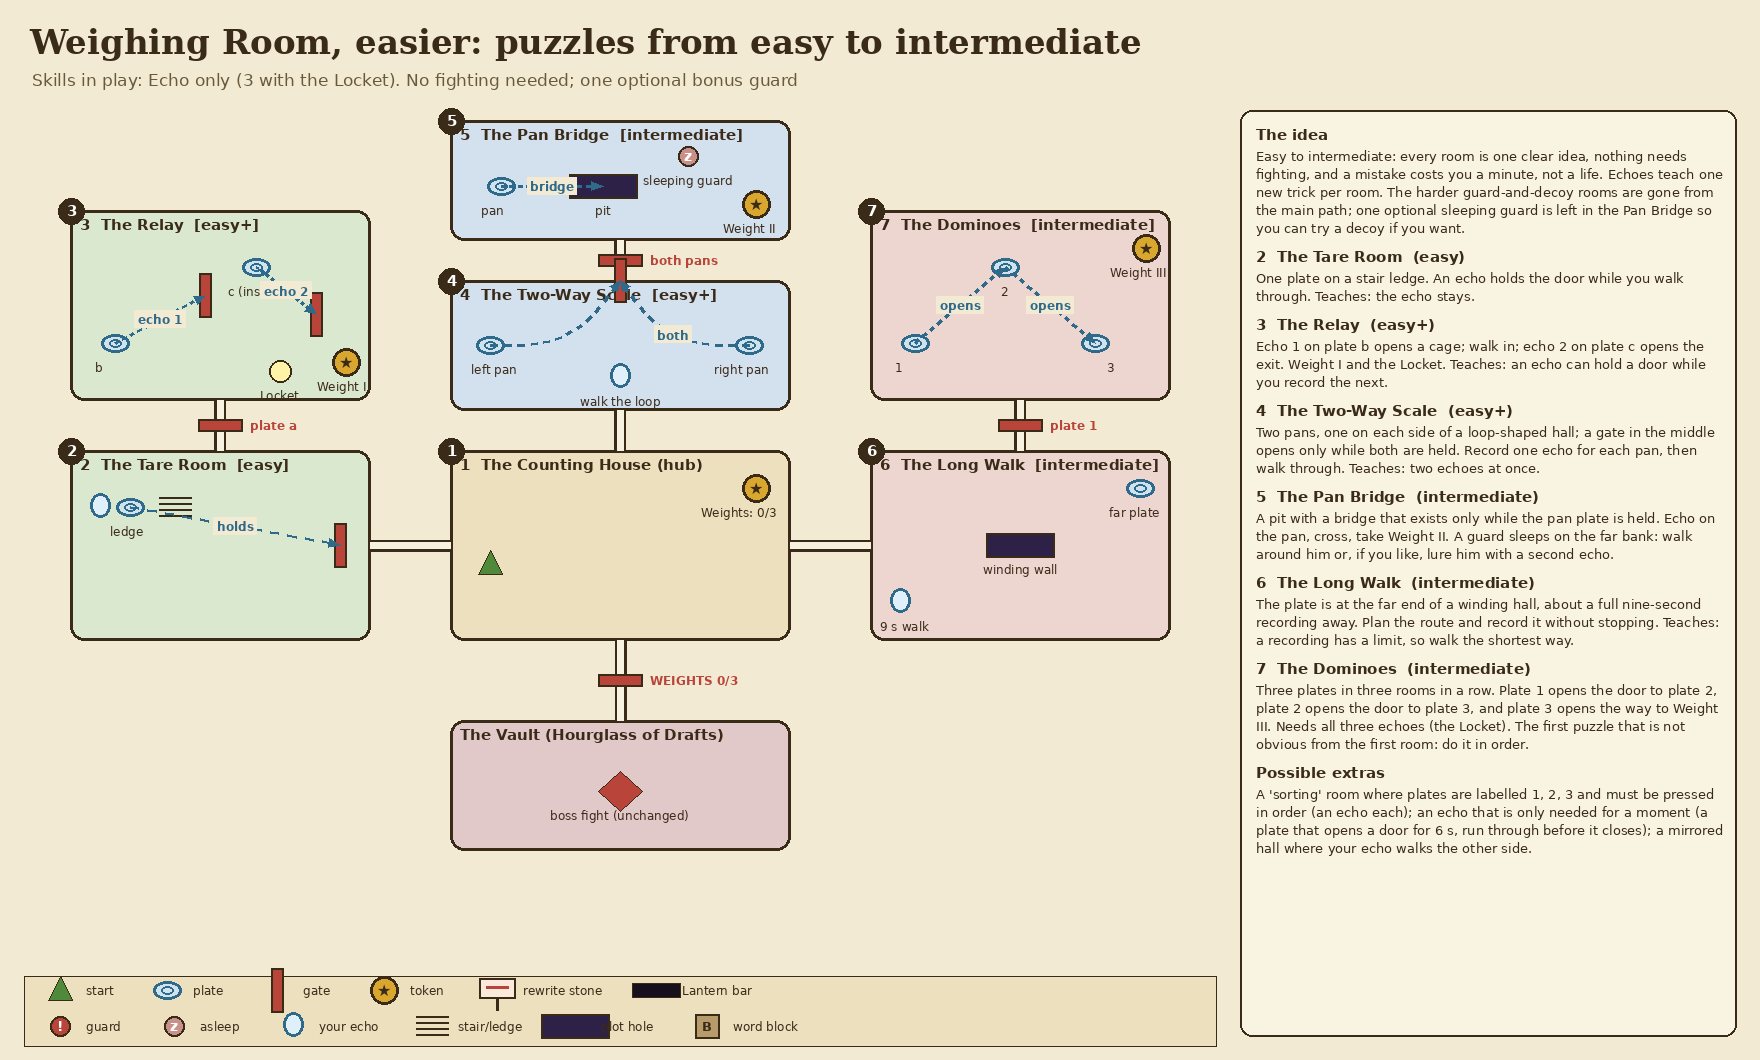
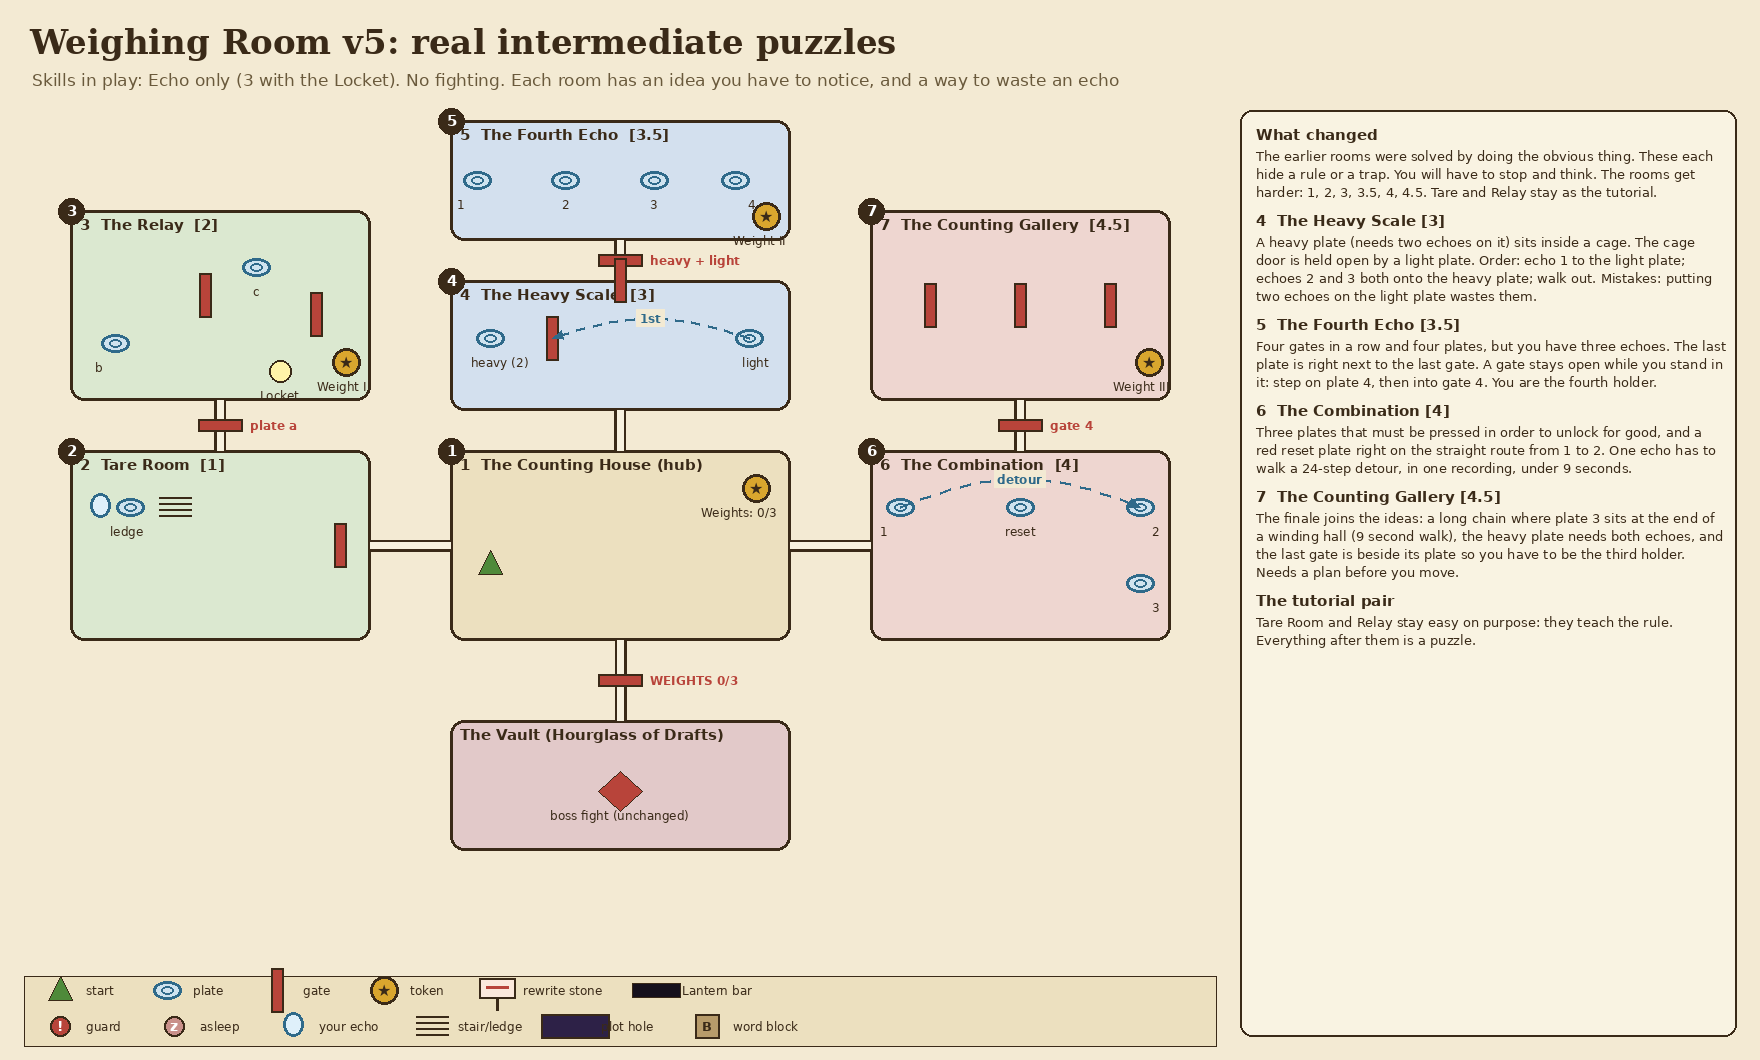
Design plans: Weighing Room v5 with real intermediate puzzles (heavy plate, you-are-the-fourth, ordered combination with a reset trap)
Claude-Session: https://claude.ai/code/session_016gJ6h7fwHSB3wbPLZqVGQo

diff --git a/tools/draw_plans.py b/tools/draw_plans.py
@@ -284,30 +284,25 @@ def weighing():
 
 # ---- WEIGHING ROOM v3: easy to intermediate -----------------------------------------------------------------------------
 def weighing_easy():
-    p = Plan("Weighing Room, easier: puzzles from easy to intermediate", "Echo only (3 with the Locket). No fighting needed; one optional bonus guard")
-    frame(p, {"hub": "1  The Counting House (hub)", "a1": "2  The Tare Room  [easy]", "a2": "3  The Relay  [easy+]", "b1": "4  The Two-Way Scale  [easy+]", "b2": "5  The Pan Bridge  [intermediate]",
-              "c1": "6  The Long Walk  [intermediate]", "c2": "7  The Dominoes  [intermediate]", "la": "plate a", "lb": "both pans", "lc": "plate 1"}, "The Vault (Hourglass of Drafts)", "WEIGHTS 0/3")
+    p = Plan("Weighing Room v5: real intermediate puzzles", "Echo only (3 with the Locket). No fighting. Each room has an idea you have to notice, and a way to waste an echo")
+    frame(p, {"hub": "1  The Counting House (hub)", "a1": "2  Tare Room  [1]", "a2": "3  The Relay  [2]", "b1": "4  The Heavy Scale  [3]", "b2": "5  The Fourth Echo  [3.5]",
+              "c1": "6  The Combination  [4]", "c2": "7  The Counting Gallery  [4.5]", "la": "plate a", "lb": "heavy + light", "lc": "gate 4"}, "The Vault (Hourglass of Drafts)", "WEIGHTS 0/3")
     p.item("hub", "start", "start", 0.12, 0.6); p.item("hub", "tk", "token", 0.9, 0.2, "Weights: 0/3")
     p.item("a1", "pa", "plate", 0.2, 0.3, "ledge"); p.item("a1", "st", "stair", 0.35, 0.3); p.item("a1", "ea", "echo", 0.1, 0.3); p.item("a1", "ga", "gate", 0.9, 0.5)
-    p.dep("pa", "ga", BLUE, "holds", 0)
-    p.item("a2", "pb", "plate", 0.15, 0.7, "b"); p.item("a2", "x1", "gate", 0.45, 0.45); p.item("a2", "pc", "plate", 0.62, 0.3, "c (inside)"); p.item("a2", "x2", "gate", 0.82, 0.55)
+    p.item("a2", "pb", "plate", 0.15, 0.7, "b"); p.item("a2", "x1", "gate", 0.45, 0.45); p.item("a2", "pc", "plate", 0.62, 0.3, "c"); p.item("a2", "x2", "gate", 0.82, 0.55)
     p.item("a2", "tW1", "token", 0.92, 0.8, "Weight I"); p.item("a2", "lk", "lamp", 0.7, 0.85, "Locket")
-    p.dep("pb", "x1", BLUE, "echo 1", 0); p.dep("pc", "x2", BLUE, "echo 2", 0)
-    p.item("b1", "pl", "plate", 0.12, 0.5, "left pan"); p.item("b1", "pr", "plate", 0.88, 0.5, "right pan"); p.item("b1", "gt", "gate", 0.5, 0.0); p.item("b1", "e1", "echo", 0.5, 0.75, "walk the loop")
-    p.dep("pl", "gt", BLUE, "", -25); p.dep("pr", "gt", BLUE, "both", 25)
-    p.item("b2", "pf", "plate", 0.15, 0.55, "pan"); p.item("b2", "hp", "hole", 0.45, 0.55, "pit"); p.item("b2", "tW2", "token", 0.9, 0.7, "Weight II"); p.item("b2", "sl", "sleep", 0.7, 0.3, "sleeping guard")
-    p.dep("pf", "hp", BLUE, "bridge", 0)
-    p.item("c1", "p0", "plate", 0.9, 0.2, "far plate"); p.item("c1", "ec", "echo", 0.1, 0.8, "9 s walk"); p.item("c1", "hh", "hole", 0.5, 0.5, "winding wall")
-    p.item("c2", "d1", "plate", 0.15, 0.7, "1"); p.item("c2", "d2", "plate", 0.45, 0.3, "2"); p.item("c2", "d3", "plate", 0.75, 0.7, "3"); p.item("c2", "tW3", "token", 0.92, 0.2, "Weight III")
-    p.dep("d1", "d2", BLUE, "opens", 0); p.dep("d2", "d3", BLUE, "opens", 0)
-    p.note("The idea", "Easy to intermediate: every room is one clear idea, nothing needs fighting, and a mistake costs you a minute, not a life. Echoes teach one new trick per room. The harder guard-and-decoy rooms are gone from the main path; one optional sleeping guard is left in the Pan Bridge so you can try a decoy if you want.")
-    p.note("2  The Tare Room  (easy)", "One plate on a stair ledge. An echo holds the door while you walk through. Teaches: the echo stays.")
-    p.note("3  The Relay  (easy+)", "Echo 1 on plate b opens a cage; walk in; echo 2 on plate c opens the exit. Weight I and the Locket. Teaches: an echo can hold a door while you record the next.")
-    p.note("4  The Two-Way Scale  (easy+)", "Two pans, one on each side of a loop-shaped hall; a gate in the middle opens only while both are held. Record one echo for each pan, then walk through. Teaches: two echoes at once.")
-    p.note("5  The Pan Bridge  (intermediate)", "A pit with a bridge that exists only while the pan plate is held. Echo on the pan, cross, take Weight II. A guard sleeps on the far bank: walk around him or, if you like, lure him with a second echo.")
-    p.note("6  The Long Walk  (intermediate)", "The plate is at the far end of a winding hall, about a full nine-second recording away. Plan the route and record it without stopping. Teaches: a recording has a limit, so walk the shortest way.")
-    p.note("7  The Dominoes  (intermediate)", "Three plates in three rooms in a row. Plate 1 opens the door to plate 2, plate 2 opens the door to plate 3, and plate 3 opens the way to Weight III. Needs all three echoes (the Locket). The first puzzle that is not obvious from the first room: do it in order.")
-    p.note("Possible extras", "A 'sorting' room where plates are labelled 1, 2, 3 and must be pressed in order (an echo each); an echo that is only needed for a moment (a plate that opens a door for 6 s, run through before it closes); a mirrored hall where your echo walks the other side.")
+    p.item("b1", "hv", "plate", 0.12, 0.45, "heavy (2)"); p.item("b1", "cg", "gate", 0.3, 0.45); p.item("b1", "lt", "plate", 0.88, 0.45, "light"); p.item("b1", "gt", "gate", 0.5, 0.0)
+    p.dep("lt", "cg", BLUE, "1st", -20)
+    p.item("b2", "f1", "plate", 0.08, 0.5, "1"); p.item("b2", "f2", "plate", 0.34, 0.5, "2"); p.item("b2", "f3", "plate", 0.6, 0.5, "3"); p.item("b2", "f4", "plate", 0.84, 0.5, "4"); p.item("b2", "tW2", "token", 0.93, 0.8, "Weight II")
+    p.item("c1", "r1", "plate", 0.1, 0.3, "1"); p.item("c1", "rx", "plate", 0.5, 0.3, "reset"); p.item("c1", "r2", "plate", 0.9, 0.3, "2"); p.item("c1", "r3", "plate", 0.9, 0.7, "3")
+    p.dep("r1", "r2", BLUE, "detour", 28)
+    p.item("c2", "g1", "gate", 0.2, 0.5); p.item("c2", "g2", "gate", 0.5, 0.5); p.item("c2", "g3", "gate", 0.8, 0.5); p.item("c2", "tW3", "token", 0.93, 0.8, "Weight III")
+    p.note("What changed", "The earlier rooms were solved by doing the obvious thing. These each hide a rule or a trap. You will have to stop and think. The rooms get harder: 1, 2, 3, 3.5, 4, 4.5. Tare and Relay stay as the tutorial.")
+    p.note("4  The Heavy Scale [3]", "A heavy plate (needs two echoes on it) sits inside a cage. The cage door is held open by a light plate. Order: echo 1 to the light plate; echoes 2 and 3 both onto the heavy plate; walk out. Mistakes: putting two echoes on the light plate wastes them.")
+    p.note("5  The Fourth Echo [3.5]", "Four gates in a row and four plates, but you have three echoes. The last plate is right next to the last gate. A gate stays open while you stand in it: step on plate 4, then into gate 4. You are the fourth holder.")
+    p.note("6  The Combination [4]", "Three plates that must be pressed in order to unlock for good, and a red reset plate right on the straight route from 1 to 2. One echo has to walk a 24-step detour, in one recording, under 9 seconds.")
+    p.note("7  The Counting Gallery [4.5]", "The finale joins the ideas: a long chain where plate 3 sits at the end of a winding hall (9 second walk), the heavy plate needs both echoes, and the last gate is beside its plate so you have to be the third holder. Needs a plan before you move.")
+    p.note("The tutorial pair", "Tare Room and Relay stay easy on purpose: they teach the rule. Everything after them is a puzzle.")
     p.finish("docs/dungeon_plans/side_weighing_room_easy.png")
 
 # ---- PROOF ROOM (side) ------------------------------------------------------------------------------------------------
@@ -334,7 +329,7 @@ if __name__ == "__main__":
 # Legend for the sketches: # void  . floor  ^ raised ledge  S stair  ~ pit  a..z plate  = gate  | cage wall gate
 # E entry  W weight  L locket  g sleeping guard  X exit
 EASY_ROOMS = [
-    ("2  The Tare Room  (easy, 1 echo)", [
+    ("2  The Tare Room  [1: tutorial, 1 echo]", [
         "################",
         "#^^^^^#........#",
         "#^^a^^S........#",
@@ -342,44 +337,43 @@ EASY_ROOMS = [
         "#######........#",
         "#E.............#",
         "################"],
-     [[(1, 5), (8, 5), (8, 2), (6, 2), (3, 2)]], ["Record from the entry: round, up the stair onto the ledge plate (a).", "The echo stays on the plate. Walk out through the gate."]),
-    ("3  The Relay  (easy+, 2 echoes)", [
+     [[(1, 5), (8, 5), (8, 2), (6, 2), (3, 2)]], ["Round and up the stair onto the ledge plate. The echo stays. That is the whole rule."]),
+    ("3  The Relay  [2: 2 echoes in order]", [
         "#####################",
         "#........#......#WL.#",
         "#........=..c...|...#",
         "#E....b..#......#####",
         "#####################"],
-     [[(1, 3), (6, 3)], [(8, 2), (13, 2)]], ["Echo 1 on plate b opens the cage gate (=).", "Walk in, record Echo 2 onto plate c: it opens the exit gate (|). Weight and Locket."]),
-    ("4  The Two-Way Scale  (easy+, 2 echoes)", [
-        "#########=#########",
-        "#.................#",
-        "#.###############.#",
-        "#a###############b#",
-        "#.###############.#",
-        "#........E........#",
-        "###################"],
-     [[(9, 5), (1, 5), (1, 3)], [(9, 5), (17, 5), (17, 3)]], ["Both pans (a and b) must be held at once to open the gate (=).", "Record one echo around each side, then walk up to the gate."]),
-    ("5  The Pan Bridge  (intermediate, 1 echo)", [
-        "#####################",
-        "#..a.....~~~~.......#",
-        "#E.......~~~~....g.W#",
-        "#........~~~~.......#",
+     [[(1, 3), (6, 3)], [(8, 2), (13, 2)]], ["Echo 1 on b opens the cage. Walk in, record echo 2 onto c: it opens the exit. Weight I and the Locket."]),
+    ("4  The Heavy Scale  [3: 3 echoes, order matters]", [
+        "##########=##########",
+        "#....#.............##",
+        "#.2..=.............l#",
+        "#....#.............##",
+        "#####...............#",
+        "#####.......E.......#",
         "#####################"],
-     [[(1, 2), (3, 1)]], ["Echo on the pan (a) draws out a bridge over the pit (~) while it is held.", "A guard (z) sleeps on the far bank: walk around him, or lure him with a second echo."]),
-    ("6  The Long Walk  (intermediate, 1 echo)", [
-        "############",
-        "#E.........#",
-        "##########.#",
-        "#..........#",
-        "#.##########",
-        "#.........p#",
-        "############"],
-     [[(1, 1), (10, 1), (10, 3), (1, 3), (1, 5), (10, 5)]], ["Plate p is at the end of a winding hall: about 30 steps, nearly the full nine seconds.", "Walk the shortest way, without stopping, and record it in one go."]),
-    ("7  The Dominoes  (intermediate, 3 echoes)", [
-        "############################",
-        "#E..1..=..2..=..3..........W#",
-        "############################"],
-     [[(1, 1), (4, 1)], [(7, 1), (10, 1)], [(13, 1), (16, 1)]], ["Plate 1 holds gate 1, plate 2 holds gate 2, plate 3 holds the way to the weight.", "All three echoes stay: you walk through while all three hold their plates."]),
+     [[(12, 5), (19, 2)], [(12, 5), (5, 2), (2, 2)], [(12, 5), (5, 2), (2, 2)]],
+     ["The heavy plate (2) sits in a cage and only counts when TWO echoes stand on it. The cage door is held by the light plate (l).",
+      "So: echo 1 to l first, then echoes 2 AND 3 onto the heavy plate. All three echoes, in that order, and you walk out the top gate."]),
+    ("5  The Fourth Echo  [3.5: you are the fourth]", [
+        "####################",
+        "#E.1.=.2.=.3.=.4=.W#",
+        "####################"],
+     [[(1, 1), (3, 1)], [(6, 1), (7, 1)], [(10, 1), (11, 1)], [(14, 1), (15, 1), (16, 1)]],
+     ["Four plates, four gates in a row, but you can keep only three echoes. The way: gate 4 stands right next to plate 4.",
+      "A gate stays open while you stand in it. So step on plate 4, then step into gate 4, and walk on. You are the fourth holder."]),
+    ("6  The Combination  [4: order, a trap, a route]", [
+        "#####################",
+        "#E.1.......x.......2#",
+        "###.#########.#####.#",
+        "###...........#####3#",
+        "###################=#",
+        "###################W#",
+        "#####################"],
+     [[(1, 1), (3, 1), (3, 3), (13, 3), (13, 1), (19, 1), (19, 3)]],
+     ["Plates 1, 2, 3 must be pressed in that order to unlock the gate for good. The red plate (x) resets the lock.",
+      "The straight way from 1 to 2 crosses x. One echo has to walk the detour: down, along, up, then on to 2 and 3. About 24 steps, under the 9 second limit."]),
 ]
 
 def sketch(d, ox, oy, rows, paths, cell=26):
@@ -402,6 +396,8 @@ def sketch(d, ox, oy, rows, paths, cell=26):
                 d.ellipse((cx - 9, cy - 9, cx + 9, cy + 9), fill="#fff3a8", outline=INK, width=2)
             elif ch == 'g':
                 d.ellipse((cx - 9, cy - 9, cx + 9, cy + 9), fill="#c9908a", outline=INK, width=2); d.text((cx, cy), "z", font=font(12, True), fill="white", anchor="mm")
+            elif ch == 'x':
+                d.ellipse((cx - 11, cy - 7, cx + 11, cy + 7), outline=RED, width=3, fill="#f0c8c0"); d.text((cx, cy + 16), 'reset', font=font(11, True), fill=RED, anchor='mm')
             elif ch.isalnum() and ch not in "SEWLg" and ch.lower() == ch or ch.isdigit():
                 d.ellipse((cx - 11, cy - 7, cx + 11, cy + 7), outline=BLUE, width=3, fill="#cfe3ef")
                 d.text((cx, cy + 16), ch, font=font(11, True), fill=BLUE, anchor="mm")
@@ -444,8 +440,8 @@ def weighing_progression():
     d = ImageDraw.Draw(im)
     d.text((30, 20), "Weighing Room: the progression", font=ImageFont.truetype(FS, 34), fill=INK)
     d.text((32, 68), "Difficulty rises one idea at a time. Echoes needed in brackets. The wings can be done in any order, except Dominoes needs the Locket from the Relay.", font=font(16), fill="#6a5a3c")
-    steps = [("Tare Room", 1, 1, "an echo stays", "A"), ("Relay", 2, 2, "echo holds a door,\\nthe next is recorded\\ninside. LOCKET", "A"), ("Two-Way Scale", 2, 2, "two echoes at once", "B"),
-             ("Pan Bridge", 3, 1, "echo holds a bridge,\\noptional decoy", "B"), ("Long Walk", 3, 1, "the 9-second limit", "C"), ("Dominoes", 4, 3, "three echoes,\\nin order", "C")]
+    steps = [("Tare Room", 1, 1, "an echo stays", "A"), ("Relay", 2, 2, "echo holds a door,\\nthe next is recorded\\ninside. LOCKET", "A"), ("Heavy Scale", 3, 3, "heavy plate = 2 echoes,\\ncage door first", "B"),
+             ("Fourth Echo", 3.5, 3, "you are the\\nfourth holder", "B"), ("Combination", 4, 1, "ordered plates, a reset\\ntrap, a 24-step detour", "C"), ("Counting Gallery", 4.5, 3, "everything together,\\nplan before moving", "C")]
     wing = {"A": "#dbe8d0", "B": "#d3e0ee", "C": "#eed6d0"}
     x0, x1, y0, y1 = 120, 1600, 760, 150
     d.line((x0, y0, x1, y0), fill=INK, width=3); d.line((x0, y0, x0, y1), fill=INK, width=3)
@@ -474,8 +470,8 @@ def weighing_progression():
         d.rectangle((x0 + i * 200, 100, x0 + i * 200 + 24, 124), fill=wing[w], outline=INK)
         d.text((x0 + i * 200 + 34, 112), label, font=font(14), fill=INK, anchor="lm")
     # echo capacity markers
-    d.text((30, H - 70), "Echo slots: 2 until the Locket (end of the Relay), then 3.   Weights: 1 from Relay, 1 from Pan Bridge, 1 from Dominoes -> the scale opens the Vault.", font=font(15), fill=INK)
-    d.text((30, H - 44), "Suggested order: Tare -> Relay -> Two-Way Scale -> Pan Bridge -> Long Walk -> Dominoes. Guards: only one sleeping, optional.", font=font(15), fill=INK)
+    d.text((30, H - 70), "Echo slots: 2 until the Locket (end of the Relay), then 3.   Weights: Relay, Fourth Echo, Counting Gallery -> the scale opens the Vault.", font=font(15), fill=INK)
+    d.text((30, H - 44), "Suggested order: Tare -> Relay -> Heavy Scale -> Fourth Echo -> Combination -> Counting Gallery. No guards at all.", font=font(15), fill=INK)
     im.save("docs/dungeon_plans/side_weighing_room_progression.png")
 
 if __name__ == "__main__":
